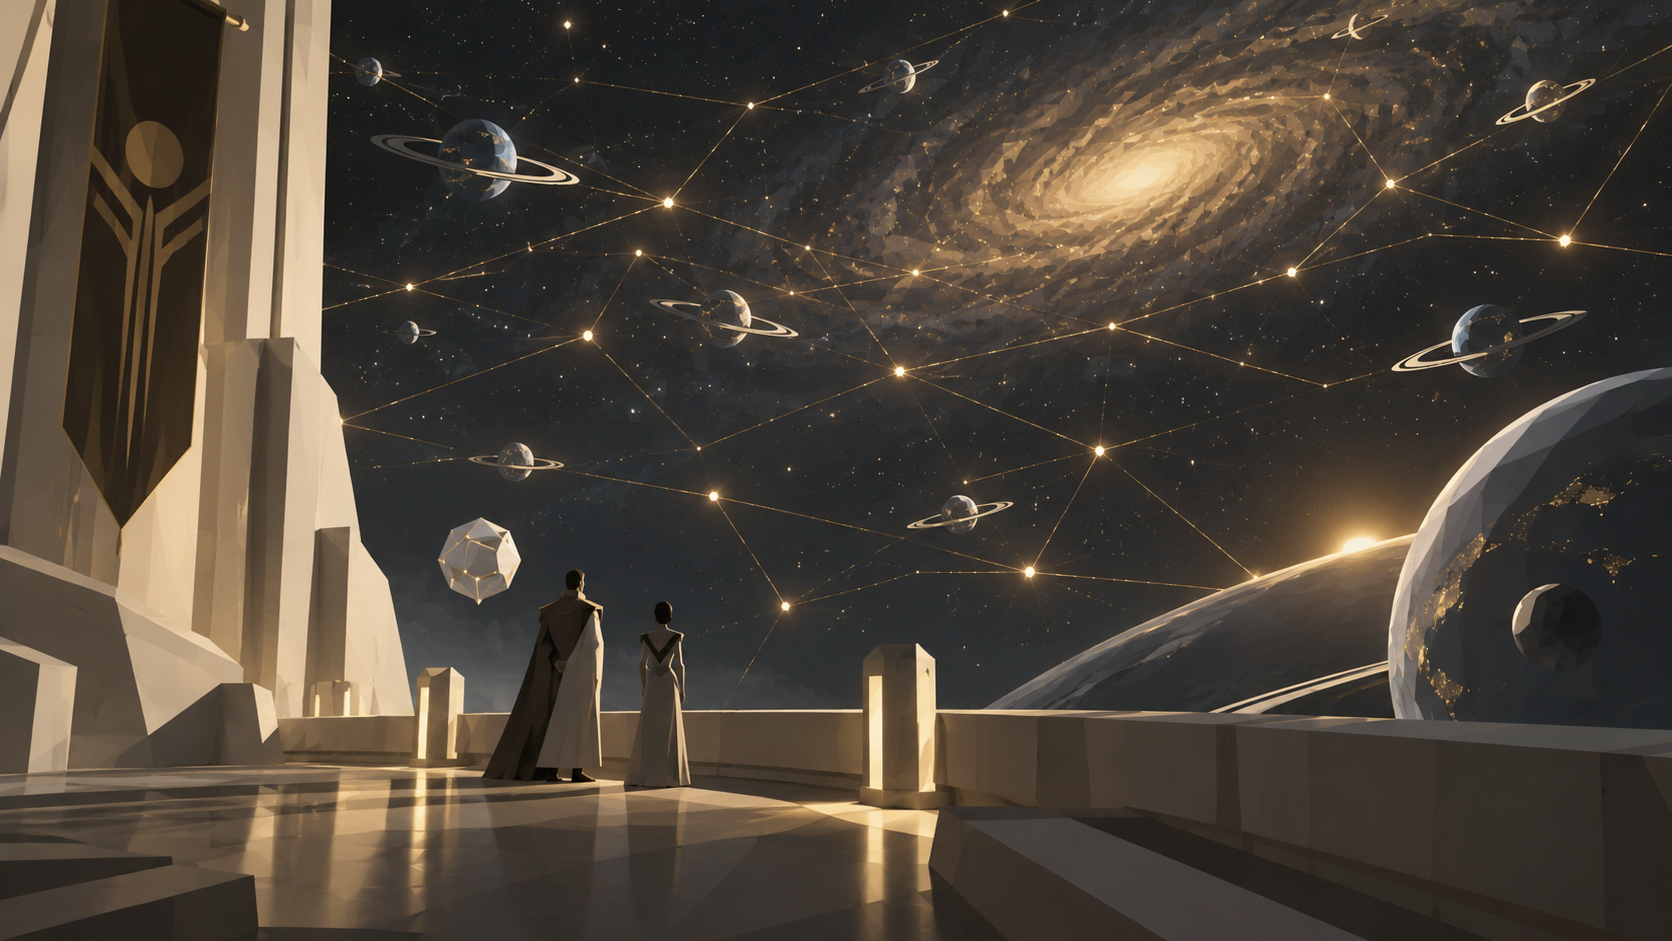
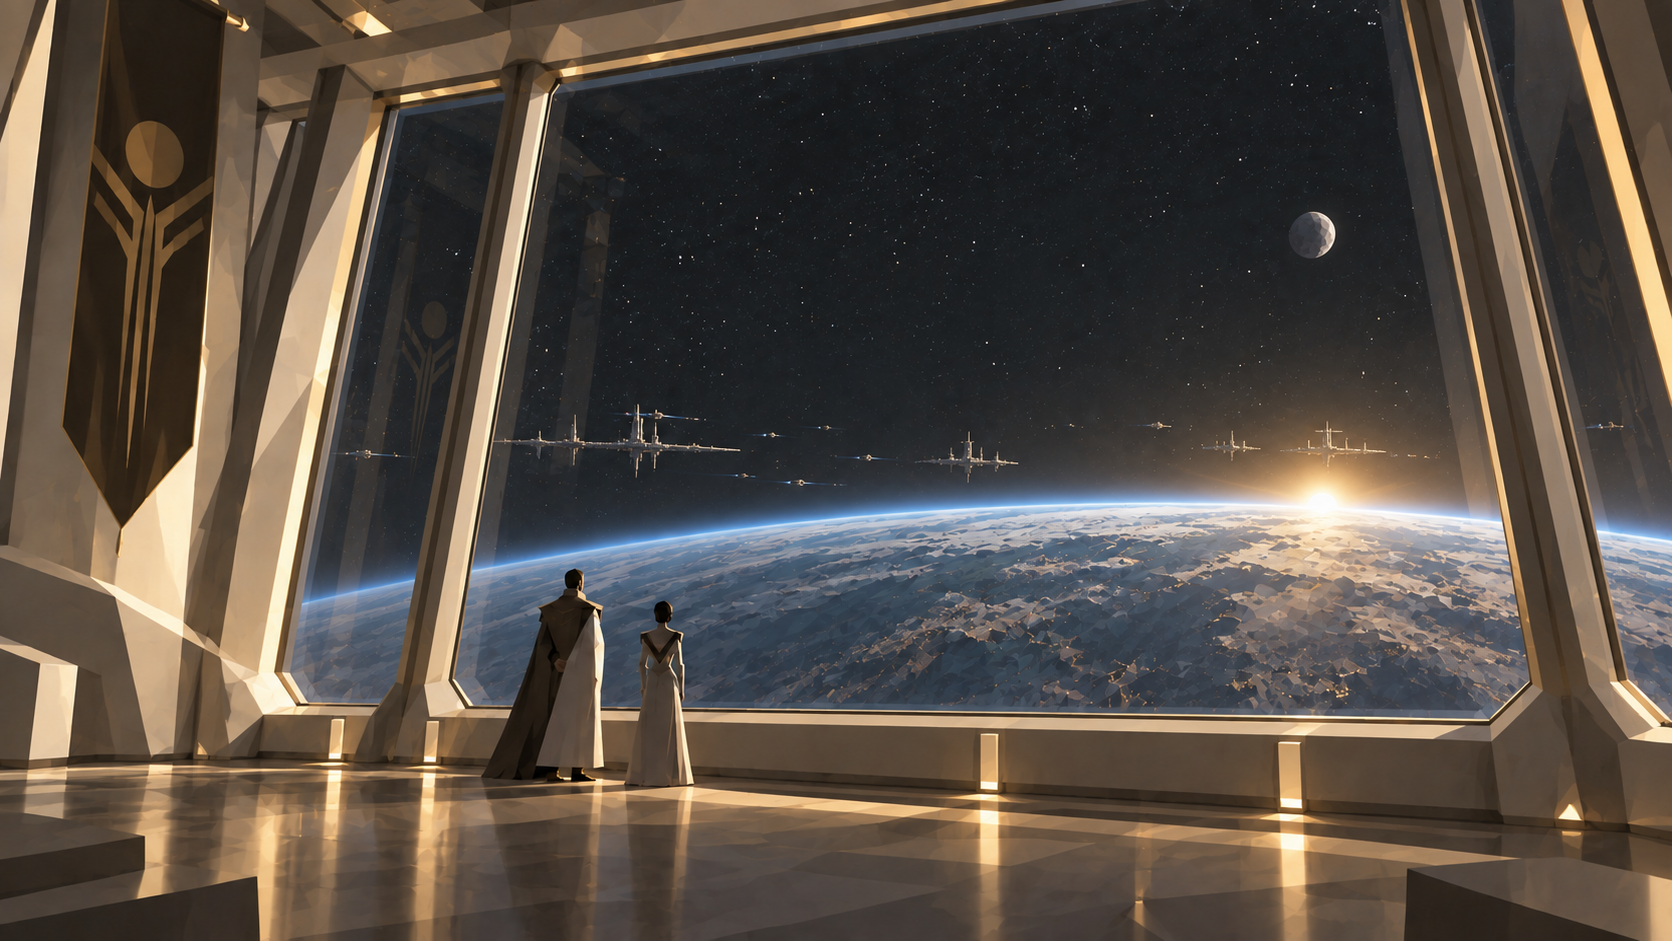
chore: some intro fixes

diff --git a/src/presentation/menu/StartMenu.cs b/src/presentation/menu/StartMenu.cs
@@ -7,9 +7,15 @@ public partial class StartMenu : Control
 {
 	private const string IntroScenePath = "res://scenes/intro.tscn";
 
+	[Export(PropertyHint.Range, "0.005,0.05,0.005")]
+	private float _dustBandEndHalfThicknessRatio = 0.015f;
+
 	private Control _menuColumn = null!;
 	private Control _settingsOverlay = null!;
-	private Control _dustRegion = null!;
+	private Control _art = null!;
+	private Control _dustBandStart = null!;
+	private Control _dustBandEnd = null!;
+	private Control _dustBandWide = null!;
 	private GpuParticles2D _dustParticles = null!;
 	private ParticleProcessMaterial _dustMaterial = null!;
 	private OptionButton _displayMode = null!;
@@ -19,11 +25,14 @@ public partial class StartMenu : Control
 	{
 		_menuColumn = GetNode<Control>("%MenuColumn");
 		_settingsOverlay = GetNode<Control>("%SettingsOverlay");
-		_dustRegion = GetNode<Control>("%DustRegion");
-		_dustParticles = _dustRegion.GetNode<GpuParticles2D>("%DustParticles");
+		_art = GetNode<Control>("ArtFrame/Art");
+		_dustBandStart = GetNode<Control>("%DustBandStart");
+		_dustBandEnd = GetNode<Control>("%DustBandEnd");
+		_dustBandWide = GetNode<Control>("%DustBandWide");
+		_dustParticles = GetNode<GpuParticles2D>("%DustParticles");
 		_dustMaterial = (ParticleProcessMaterial)_dustParticles.ProcessMaterial.Duplicate();
 		_dustParticles.ProcessMaterial = _dustMaterial;
-		_dustRegion.Resized += OnDustRegionResized;
+		_art.Resized += OnDustLayoutChanged;
 		CallDeferred(MethodName.UpdateDustLayout);
 
 		_displayMode = GetNode<OptionButton>("%DisplayMode");
@@ -109,17 +118,38 @@ public partial class StartMenu : Control
 		GetTree().ChangeSceneToFile("res://scenes/battle.tscn");
 	}
 
-	private void OnDustRegionResized() => UpdateDustLayout();
+	private void OnDustLayoutChanged() => UpdateDustLayout();
 
 	private void UpdateDustLayout()
 	{
-		var size = _dustRegion.Size;
-		if (size.X < 1f || size.Y < 1f)
+		var artSize = _art.Size;
+		if (artSize.X < 1f || artSize.Y < 1f)
 			return;
 
-		var half = size * 0.5f;
-		_dustParticles.Position = half;
-		_dustMaterial.EmissionBoxExtents = new Vector3(half.X, half.Y, 1f);
-		_dustParticles.VisibilityRect = new Rect2(-half.X, -half.Y, size.X, size.Y);
+		var start = _dustBandStart.Position;
+		var end = _dustBandEnd.Position;
+		var wide = _dustBandWide.Position;
+		var delta = end - start;
+		var length = delta.Length();
+		if (length < 1f)
+			return;
+
+		var tangent = delta / length;
+		var normal = new Vector2(-tangent.Y, tangent.X);
+		var startHalf = Mathf.Abs((wide - start).Dot(normal));
+		var endHalf = artSize.Y * _dustBandEndHalfThicknessRatio;
+		var bandHalfThickness = (startHalf + endHalf) * 0.5f;
+
+		var center = (start + end) * 0.5f;
+		var visibilityPad = length * 0.5f + bandHalfThickness + 64f;
+
+		_dustParticles.Position = center;
+		_dustParticles.Rotation = delta.Angle();
+		_dustMaterial.EmissionBoxExtents = new Vector3(length * 0.5f, bandHalfThickness, 1f);
+		_dustParticles.VisibilityRect = new Rect2(
+			-visibilityPad,
+			-visibilityPad,
+			visibilityPad * 2f,
+			visibilityPad * 2f);
 	}
 }
